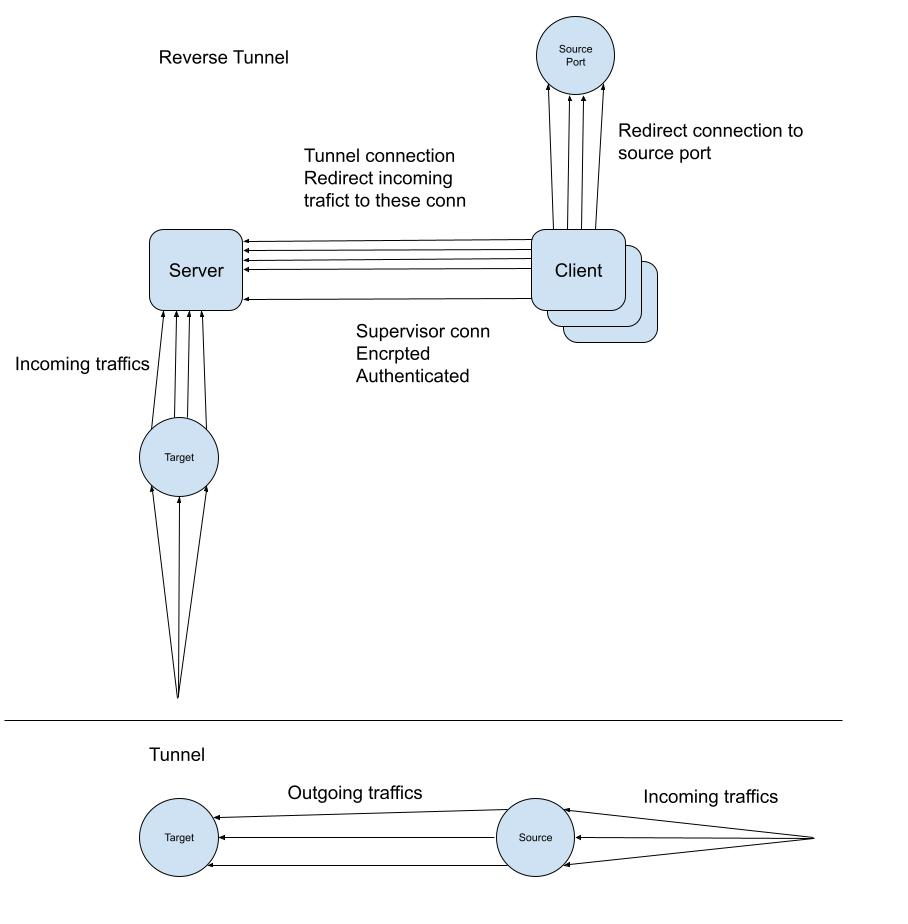
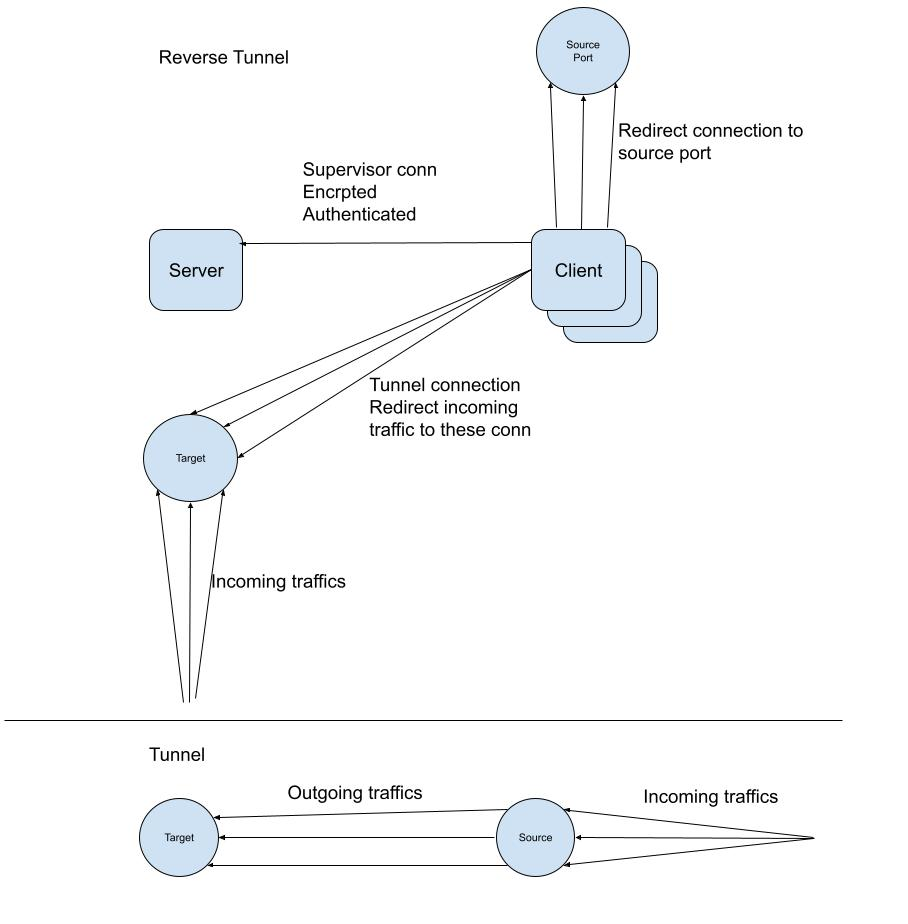
update README and design.jpg

diff --git a/README.md b/README.md
@@ -1,0 +1,17 @@
+# Go-tunnel
+
+## How to run go-tunnel
+--mode (enum:[tunnel,client,server])
+--host (only valid in server,tunnel)
+--target (only valid in server,tunnel)
+--secret (Shared symmetric encryption key, only valid in server,client)
+--min-idle-connections (only valid in server)
+--server (only valid in client)
+--source (only valid in client)
+### Example 
+- go-tunnel --mode tunnel --host 0.0.0.0:8081 --source 127.0.0.1:8080
+- go-tunnel --mode server --secret bb68e0f3-cd4f-4508-960b-3cfa172796e6 --host 0.0.0.0:5050 --min-idle-connections 10
+- go-tunnel --mode client --secret bb68e0f3-cd4f-4508-960b-3cfa172796e6 --server 186.154.25.1:5050 --target 0.0.0.0:443 --source 127.0.0.1:8080
+## Design
+
+![Go-tunnel architecture](https://raw.githubusercontent.com/tarikcarli/go-tunnel/main/design.jpg)
